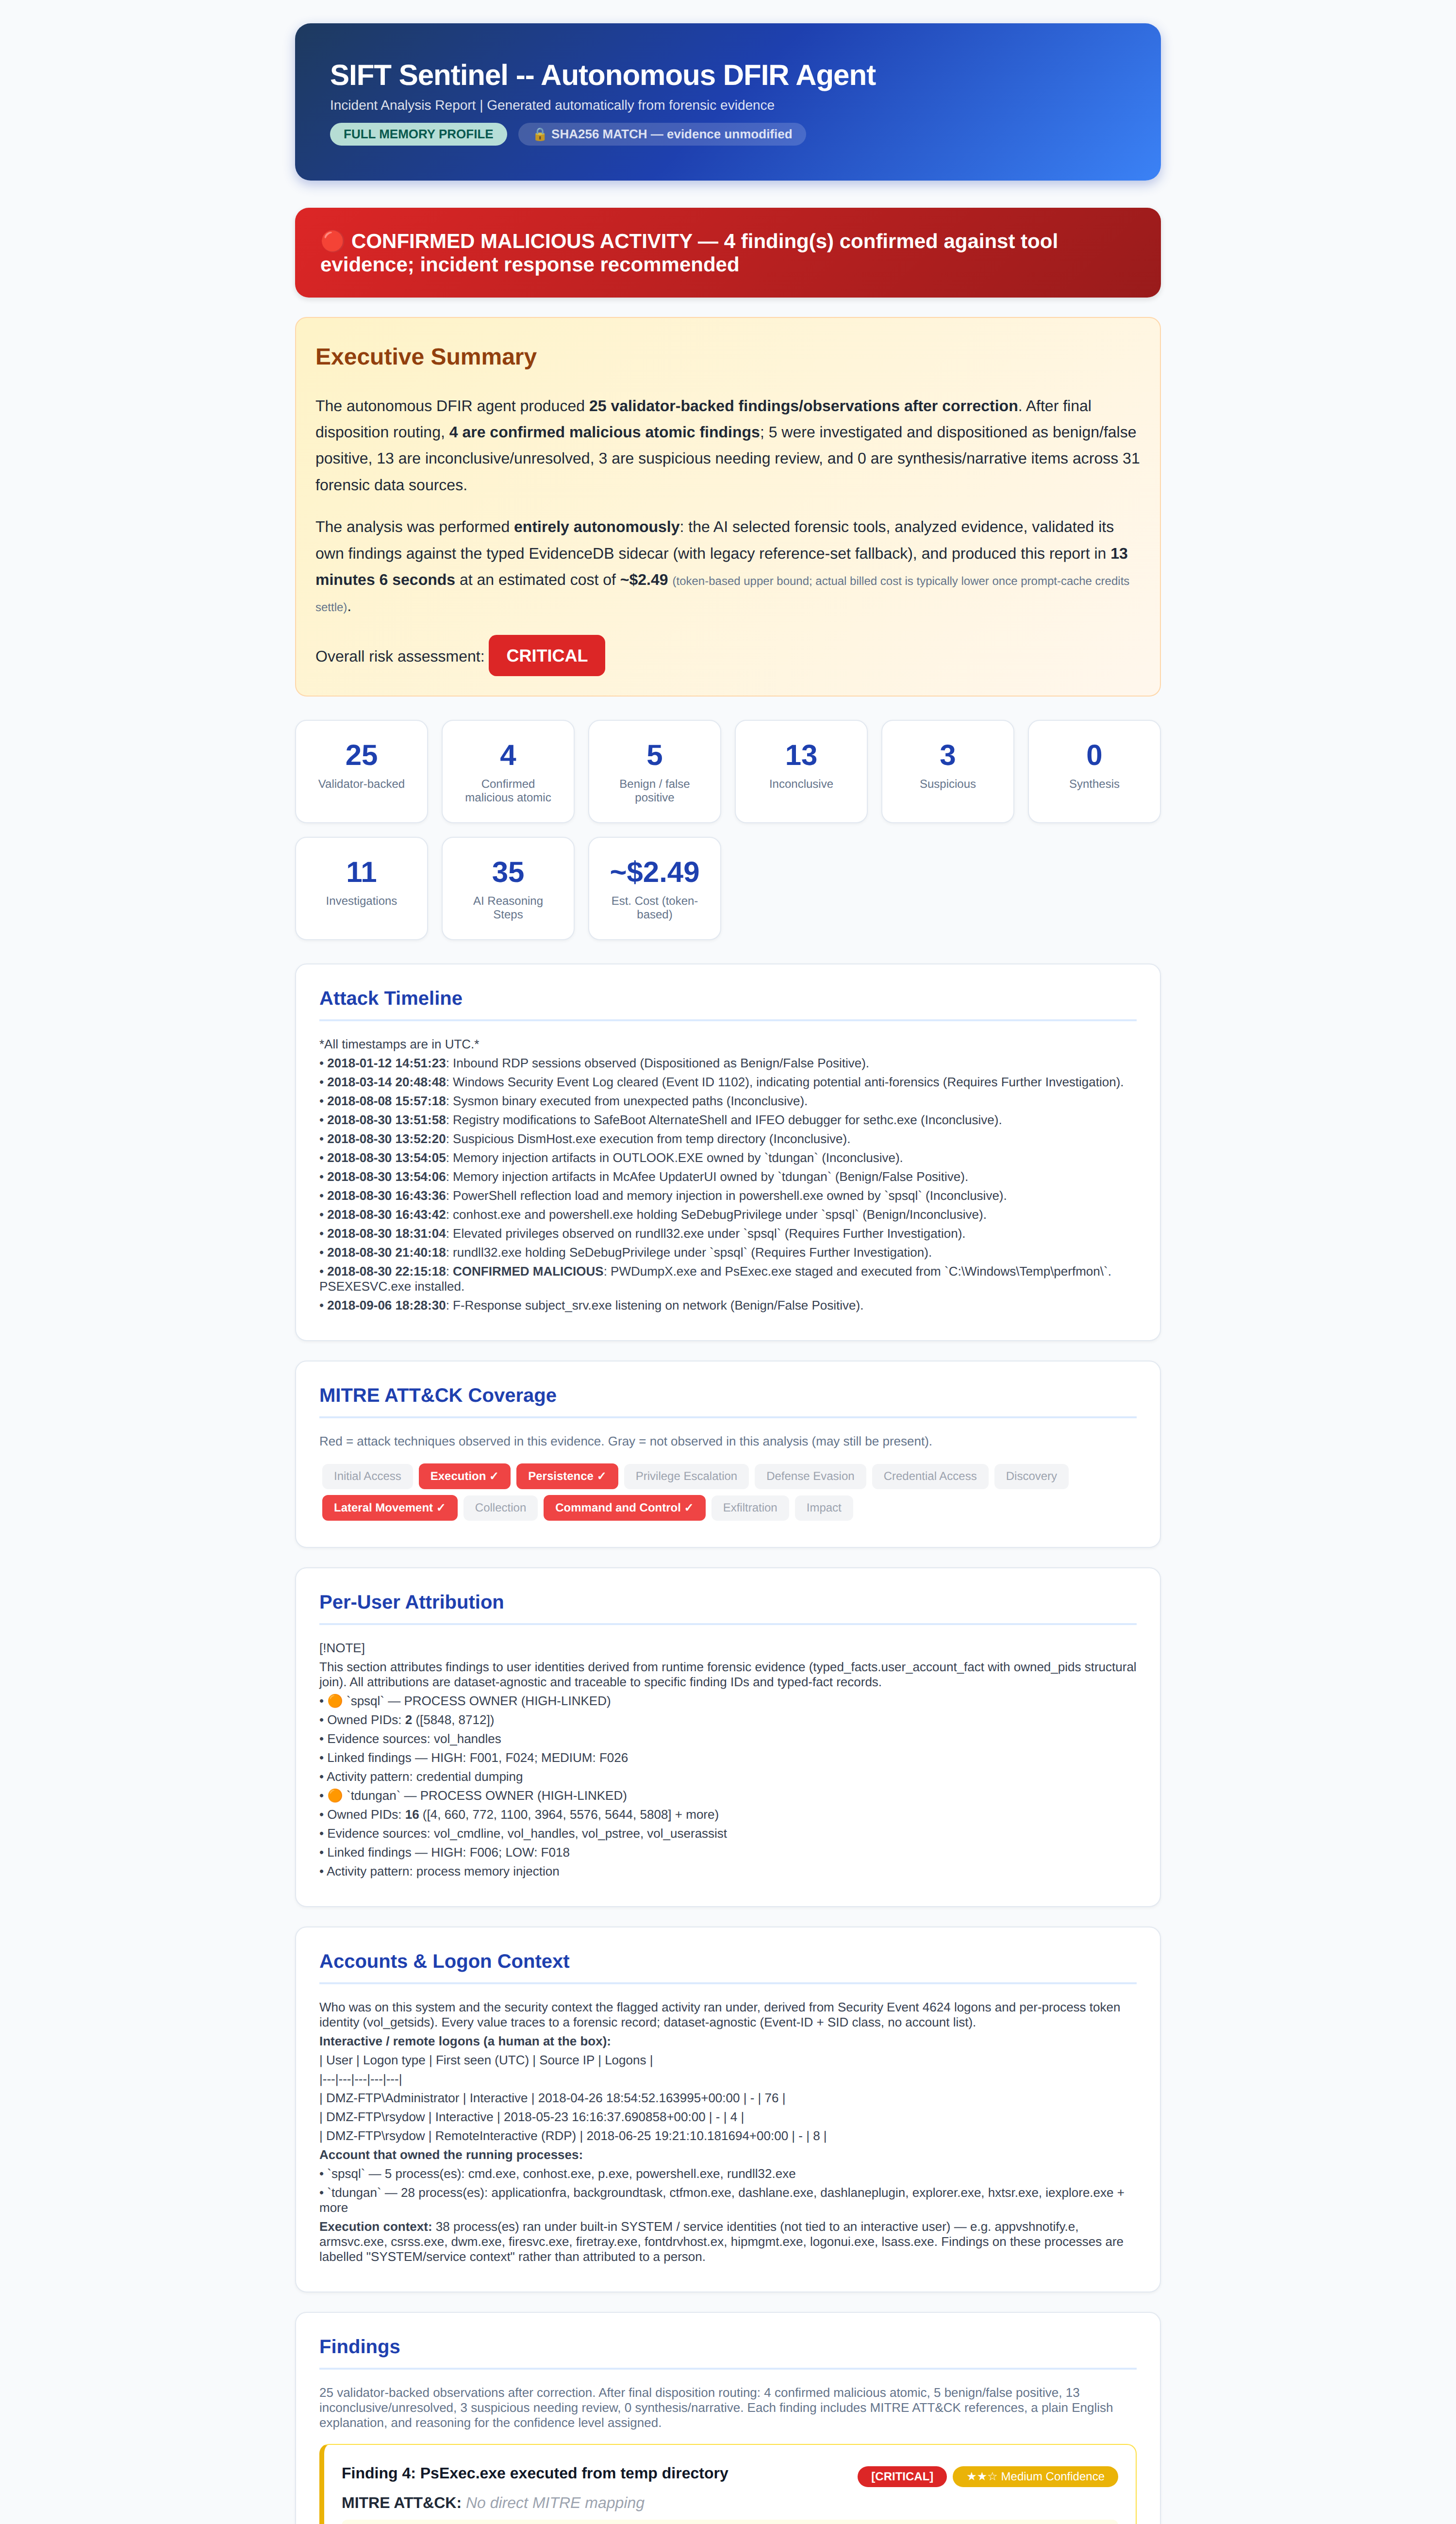
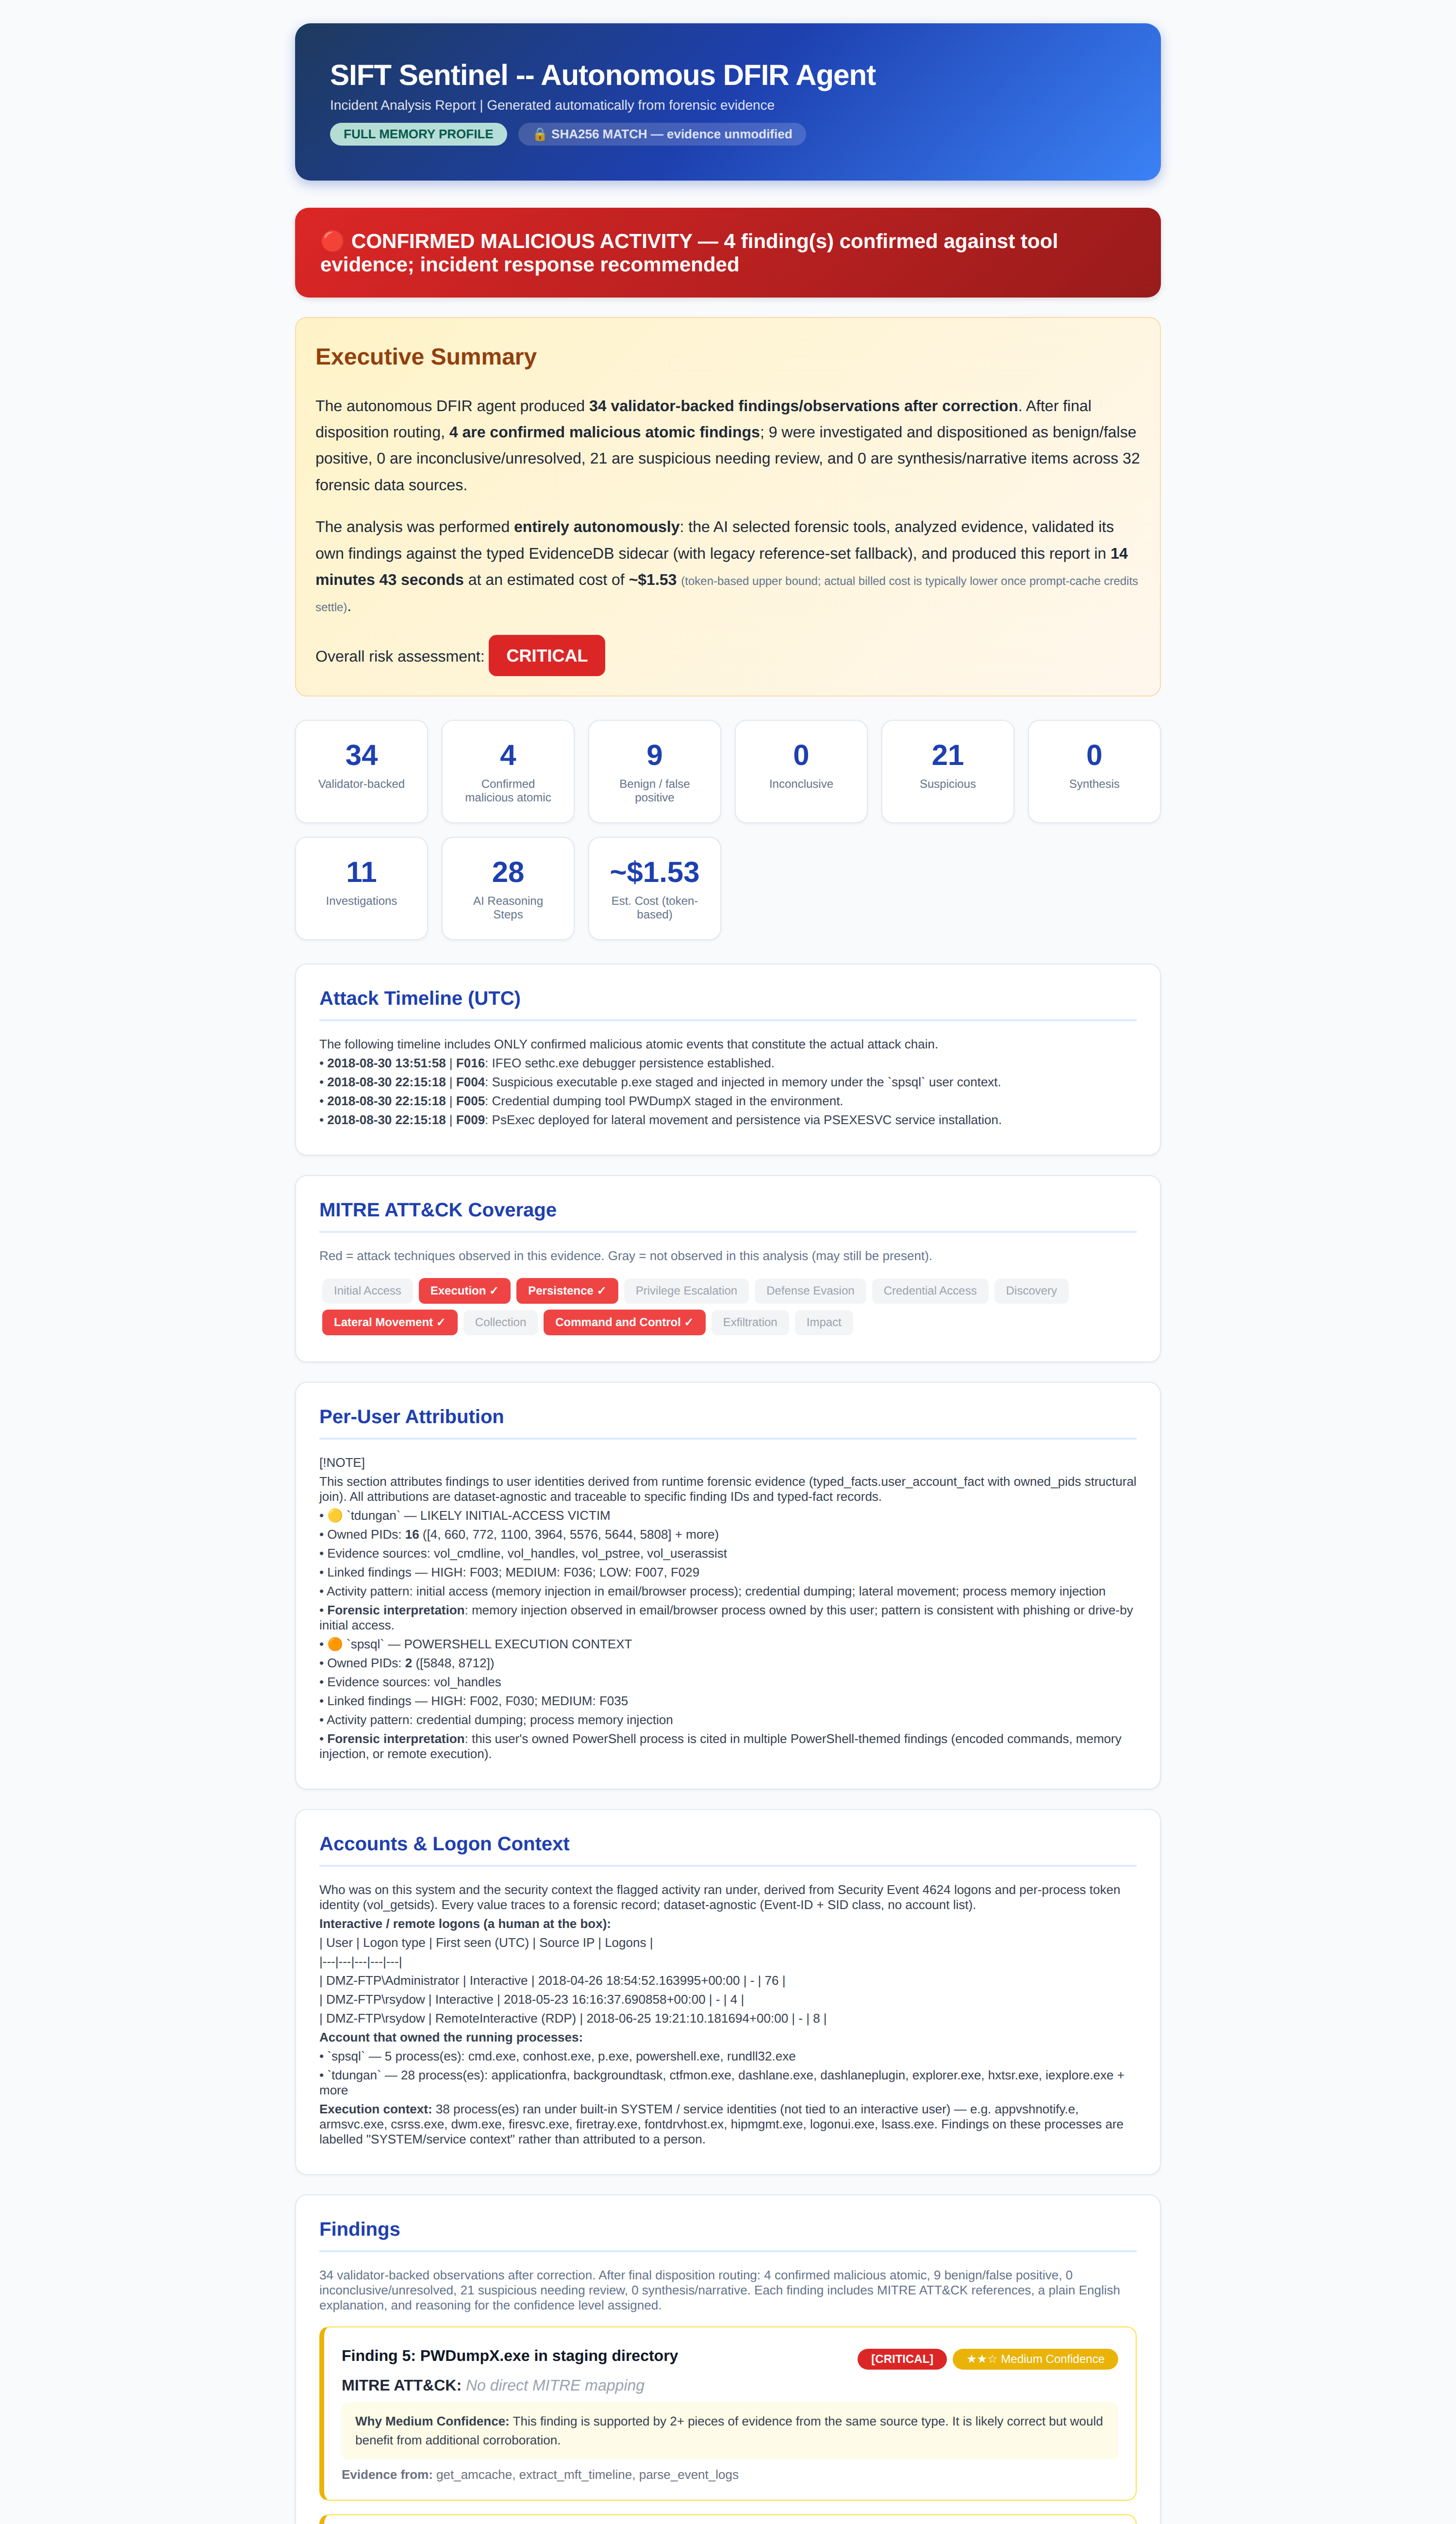
docs(qwen): canonical two-tier runs (full trust-layer levers) + refreshed demo
Re-ran BOTH tiers through the real findevil pipeline (Step-13AA finalize +
review-all, cross-bucket dedup, signature reconcile, baseline gate) - the prior
direct run_pipeline.py runs had silently skipped 13AA, so inconclusive lingered.
Canonical results (numbers from pipeline_summary.json, SHA-256 MATCH both images):

- Light (qwen-plus x4): 11 findings -> 0 confirmed / 9 needs-review / 1 benign /
  1 inconclusive; ~$0.28; 5m37s.
- Heavy (qwen3.7-max every step): 34 findings -> 4 confirmed (PsExec, PWDumpX,
  IFEO sethc.exe backdoor, p.exe) / 21 needs-review / 9 benign / 0 INCONCLUSIVE;
  13AA reclassified 22/36; automatic prompt caching reused 381,696 tokens
  (~36% cheaper, ~$1.53); 14m44s.

- Demo video rebuilt to the canonical numbers (real footage from both runs, the
  0-vs-4 reveal, 0 inconclusive on heavy). docs dashboards refreshed.
- QWEN-SUBMISSION + README verified-run section updated; the Attack Timeline in
  the report now contains only confirmed-attack events.

Changed region(s): [[0.217, 0.405, 0.775, 0.9969]]

diff --git a/QWEN-SUBMISSION.md b/QWEN-SUBMISSION.md
@@ -125,41 +125,49 @@ Python.
 ### Verified Qwen Cloud runs (proof)
 
 Two full **paired (memory + disk)** investigations ran end-to-end on **Qwen models
-on Alibaba Cloud DashScope** (rd01 Windows case: memory image + C: drive image,
-both opened read-only) - the **same deterministic trust layer**, two model tiers.
-Both record `llm_provider=qwen`, the DashScope endpoint, and **SHA-256 MATCH on
-both images** in `pipeline_summary.json`.
+on Alibaba Cloud DashScope** (rd01 Windows case: memory + C: drive image, both
+read-only), through the **full trust-layer pipeline** (Step-13AA finalize +
+review-all, cross-bucket dedup, signature reconcile, baseline gate) - the same
+deterministic layer, two model tiers. Both record `llm_provider=qwen`, the
+DashScope endpoint, and **SHA-256 MATCH on both images** in `pipeline_summary.json`.
 
 | | Light tier (`qwen-plus` ×4) | **Heavy tier (`qwen3.7-max` everywhere)** |
 |---|---|---|
-| Models | qwen-plus ensemble + ReAct | qwen3.7-max for Inv1 / Inv2×4 / Inv3A / ReAct / Report |
-| Findings (final) | 19 | 25 |
+| Findings (final) | 11 | 34 |
 | **Confirmed malicious** | **0** | **4** |
-| needs-review / benign / inconclusive | 1 / 1 / 18 | 3 / 5 / 13 |
-| Tokens (in / out) | 779,821 / 27,700 | 738,243 / 85,508 |
-| Runtime | 6m 22s | 13m 07s |
-| Cost | ~$0.35 | ~$2.49 |
+| needs-review / benign / inconclusive | 9 / 1 / 1 | 21 / 9 / **0** |
+| Tokens (uncached in / out) | 614,336 / 23,668 | 306,727 / 89,451 |
+| Prompt-cache reuse (cache-read) | 32,512 | **381,696** |
+| Runtime | 5m 37s | 14m 44s |
+| Cost (cache-aware) | ~$0.28 | ~$1.53 |
 | Integrity (mem + disk) | MATCH | MATCH |
 | Disposition + 4 confirm gates | PASS | PASS |
 
+**13AA gives a final verdict on everything.** Step-13AA (inv3a) review-all
+re-judges every ambiguous finding to a final TP / FP / needs-review disposition,
+so the heavy run leaves **zero inconclusive** (it reclassified 22 of 36 ambiguous
+findings; a proven-evil floor keeps confirmed findings in the table regardless of
+the model's verdict). The light tier's 13AA still confirmed **nothing** - no
+atomic proof, no confirm.
+
 **Same gates, different depth.** On the light tier the ensemble's strongest lead -
-code injection in `powershell.exe` (PID 8712, RWX private memory) - carried no
-atomic proof, so `NO_SPECULATIVE_CONFIRMED_GATE` / `MISSING_RAW_EVIDENCE_CONFIRMED_GATE`
-routed it to *inconclusive*: **0 confirmed**. The AI proposed; the code disposed.
+RWX code injection in `powershell.exe` (PID 8712) - never cleared the atomic-proof
+bar: **0 confirmed**. The AI proposed; the code disposed. On the heavy tier the
+flagship reconstructed a real intrusion chain and **4 findings cleared every
+confirmation gate**:
 
-On the heavy tier the flagship's deeper analysis surfaced a real, provable
-intrusion chain and **4 findings cleared every confirmation gate**:
-
-- **F004 / F012 (CRITICAL)** - `PsExec.exe` / `PSEXESVC.exe` staged and executed from a temp dir (lateral movement)
-- **F016 (CRITICAL)** - staged credential-access binaries (credential dumping + lateral movement)
-- **F003 (MEDIUM)** - `PWDumpX.exe` executed from a temp dir (credential dumping)
+- **F009 (CRITICAL)** - `PsExec.exe` - lateral movement
+- **F005 (CRITICAL)** - `PWDumpX.exe` staged - credential dumping
+- **F016 (HIGH)** - IFEO `sethc.exe` debugger - sticky-keys backdoor persistence
+- **F004 (HIGH)** - `p.exe` executed from a temp directory
 
 Each traces to its proof tools (`extract_mft_timeline`, `get_amcache`,
-`parse_event_logs`, `parse_registry_persistence`, `run_appcompatcacheparser`,
-`vol_pstree`). Even at full power the gates still rejected the unproven
-(5 benign, 13 inconclusive) - **the trust layer is the constant; the model tier
-just changes how much clears the bar.** Dashboards: `docs/qwen_paired_dashboard.png`
-(light), `docs/qwen_allmax_dashboard.png` (heavy); demo video `docs/sentinel-qwen-demo.mp4`.
+`parse_event_logs`, `run_appcompatcacheparser`, `vol_pstree`). **Automatic
+DashScope prompt caching** reused 381,696 tokens on the heavy run (the shared
+ensemble / ReAct / 13AA prefix), cutting its cost ~36%. **The trust layer is the
+constant; the model tier just changes how much clears the bar.** Dashboards:
+`docs/qwen_paired_dashboard.png` (light), `docs/qwen_allmax_dashboard.png` (heavy);
+demo video `docs/sentinel-qwen-demo.mp4`.
 
 > **Honesty note:** both are real Qwen Cloud runs (numbers straight from
 > `pipeline_summary.json`). The light tier's **0 confirmed** is the design working,

diff --git a/README.md b/README.md
@@ -34,7 +34,7 @@ output before you ever see it**.
 | Trust layer (code, not the model, decides "confirmed") | done | deterministic validator + disposition gates; every finding traces to tool output (`src/sift_sentinel/validation/`, `src/sift_sentinel/analysis/disposition.py`) |
 | Self-correction | done | [`SELF-CORRECTION-PROOF.md`](SELF-CORRECTION-PROOF.md) - FP-sweep + ReAct cross-check |
 
-> Proven end-to-end on **two real paired (memory + disk) Qwen Cloud runs** - same deterministic trust layer, two tiers: **light** (`qwen-plus` ×4 ensemble) -> **0 confirmed** (the gates overruled the AI's unproven leads; ~$0.35, 6m 22s) and **heavy** (`qwen3.7-max` on every step) -> **4 confirmed** PsExec/PWDumpX intrusion findings, each cleared every confirmation gate (~$2.49, 13m 07s). **SHA-256 MATCH on both images** in each. Full numbers + comparison in [`QWEN-SUBMISSION.md`](QWEN-SUBMISSION.md). An earlier Claude reference run on the same case stays local-only / not shipped. The trust layer, the 195 typed forensic tools, and the 16-step conductor are model-agnostic and carry over unchanged - only the model provider/tier differs.
+> Proven end-to-end on **two real paired (memory + disk) Qwen Cloud runs** through the full trust-layer pipeline (Step-13AA review-all + dedup + reconcile) - same deterministic layer, two tiers: **light** (`qwen-plus` ×4) -> **0 confirmed** (the gates confirmed nothing without atomic proof; ~$0.28, 5m 37s) and **heavy** (`qwen3.7-max` on every step) -> **4 confirmed** (PsExec, PWDumpX, an IFEO `sethc.exe` backdoor, p.exe), each cleared every confirmation gate, with **13AA leaving zero inconclusive** (~$1.53, 14m 44s; automatic prompt caching reused 381k tokens, ~36% cheaper). **SHA-256 MATCH on both images** in each. Full comparison in [`QWEN-SUBMISSION.md`](QWEN-SUBMISSION.md). An earlier Claude reference run on the same case stays local-only / not shipped. The trust layer, the 195 typed forensic tools, and the 16-step conductor are model-agnostic and carry over unchanged - only the model provider/tier differs.
 
 ---
 